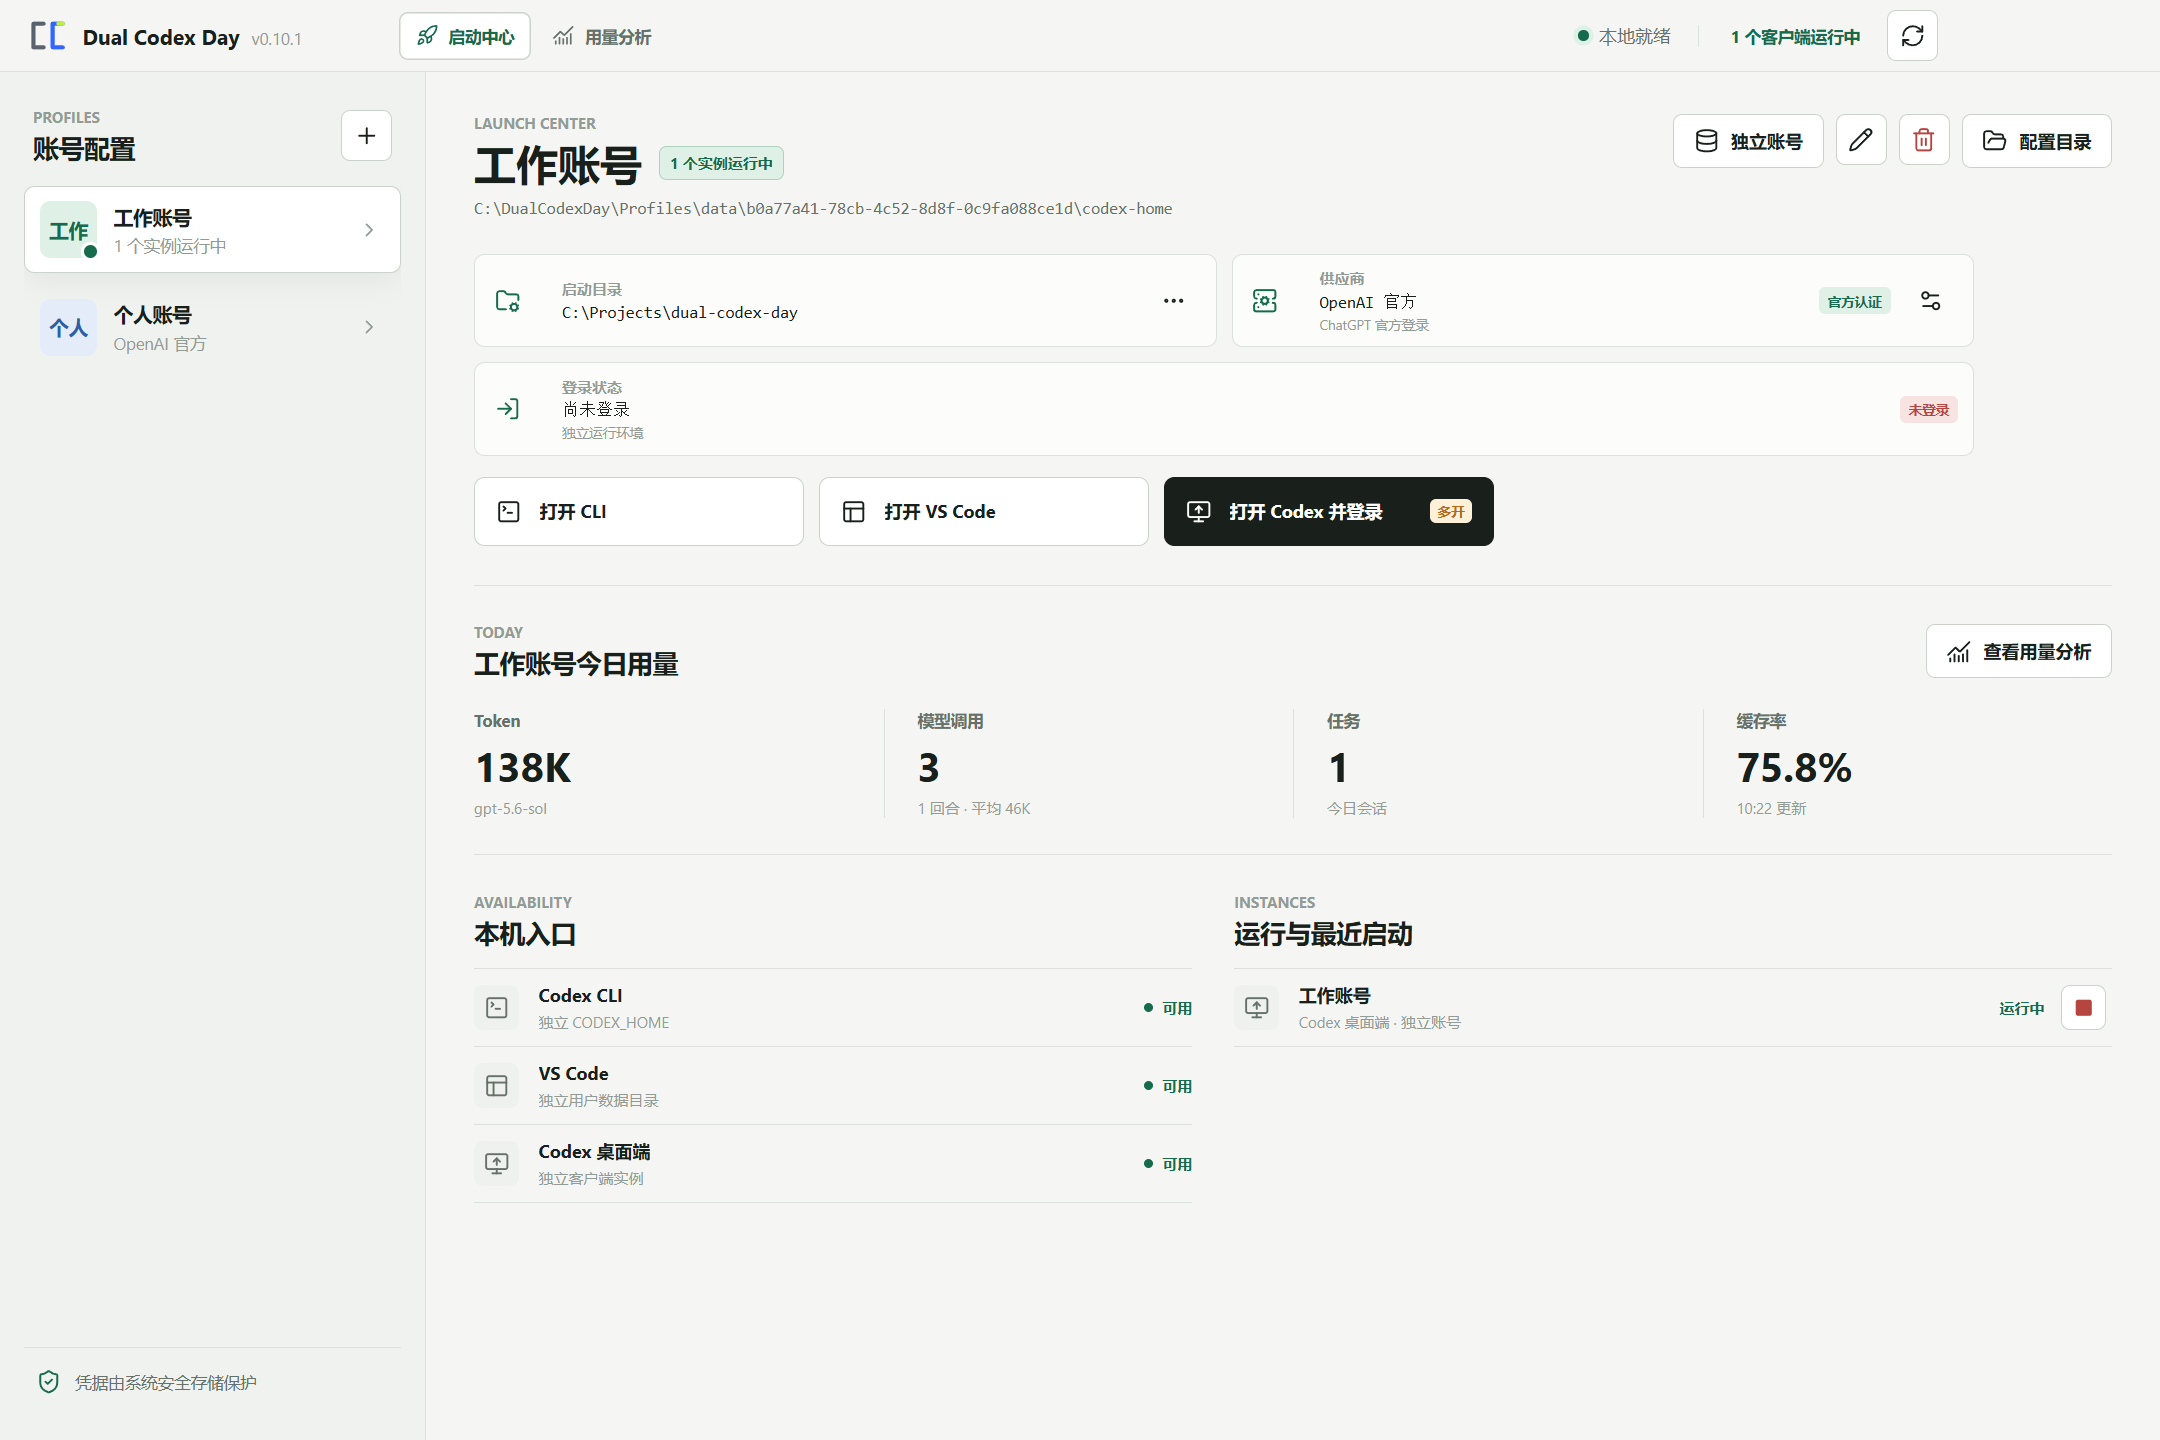
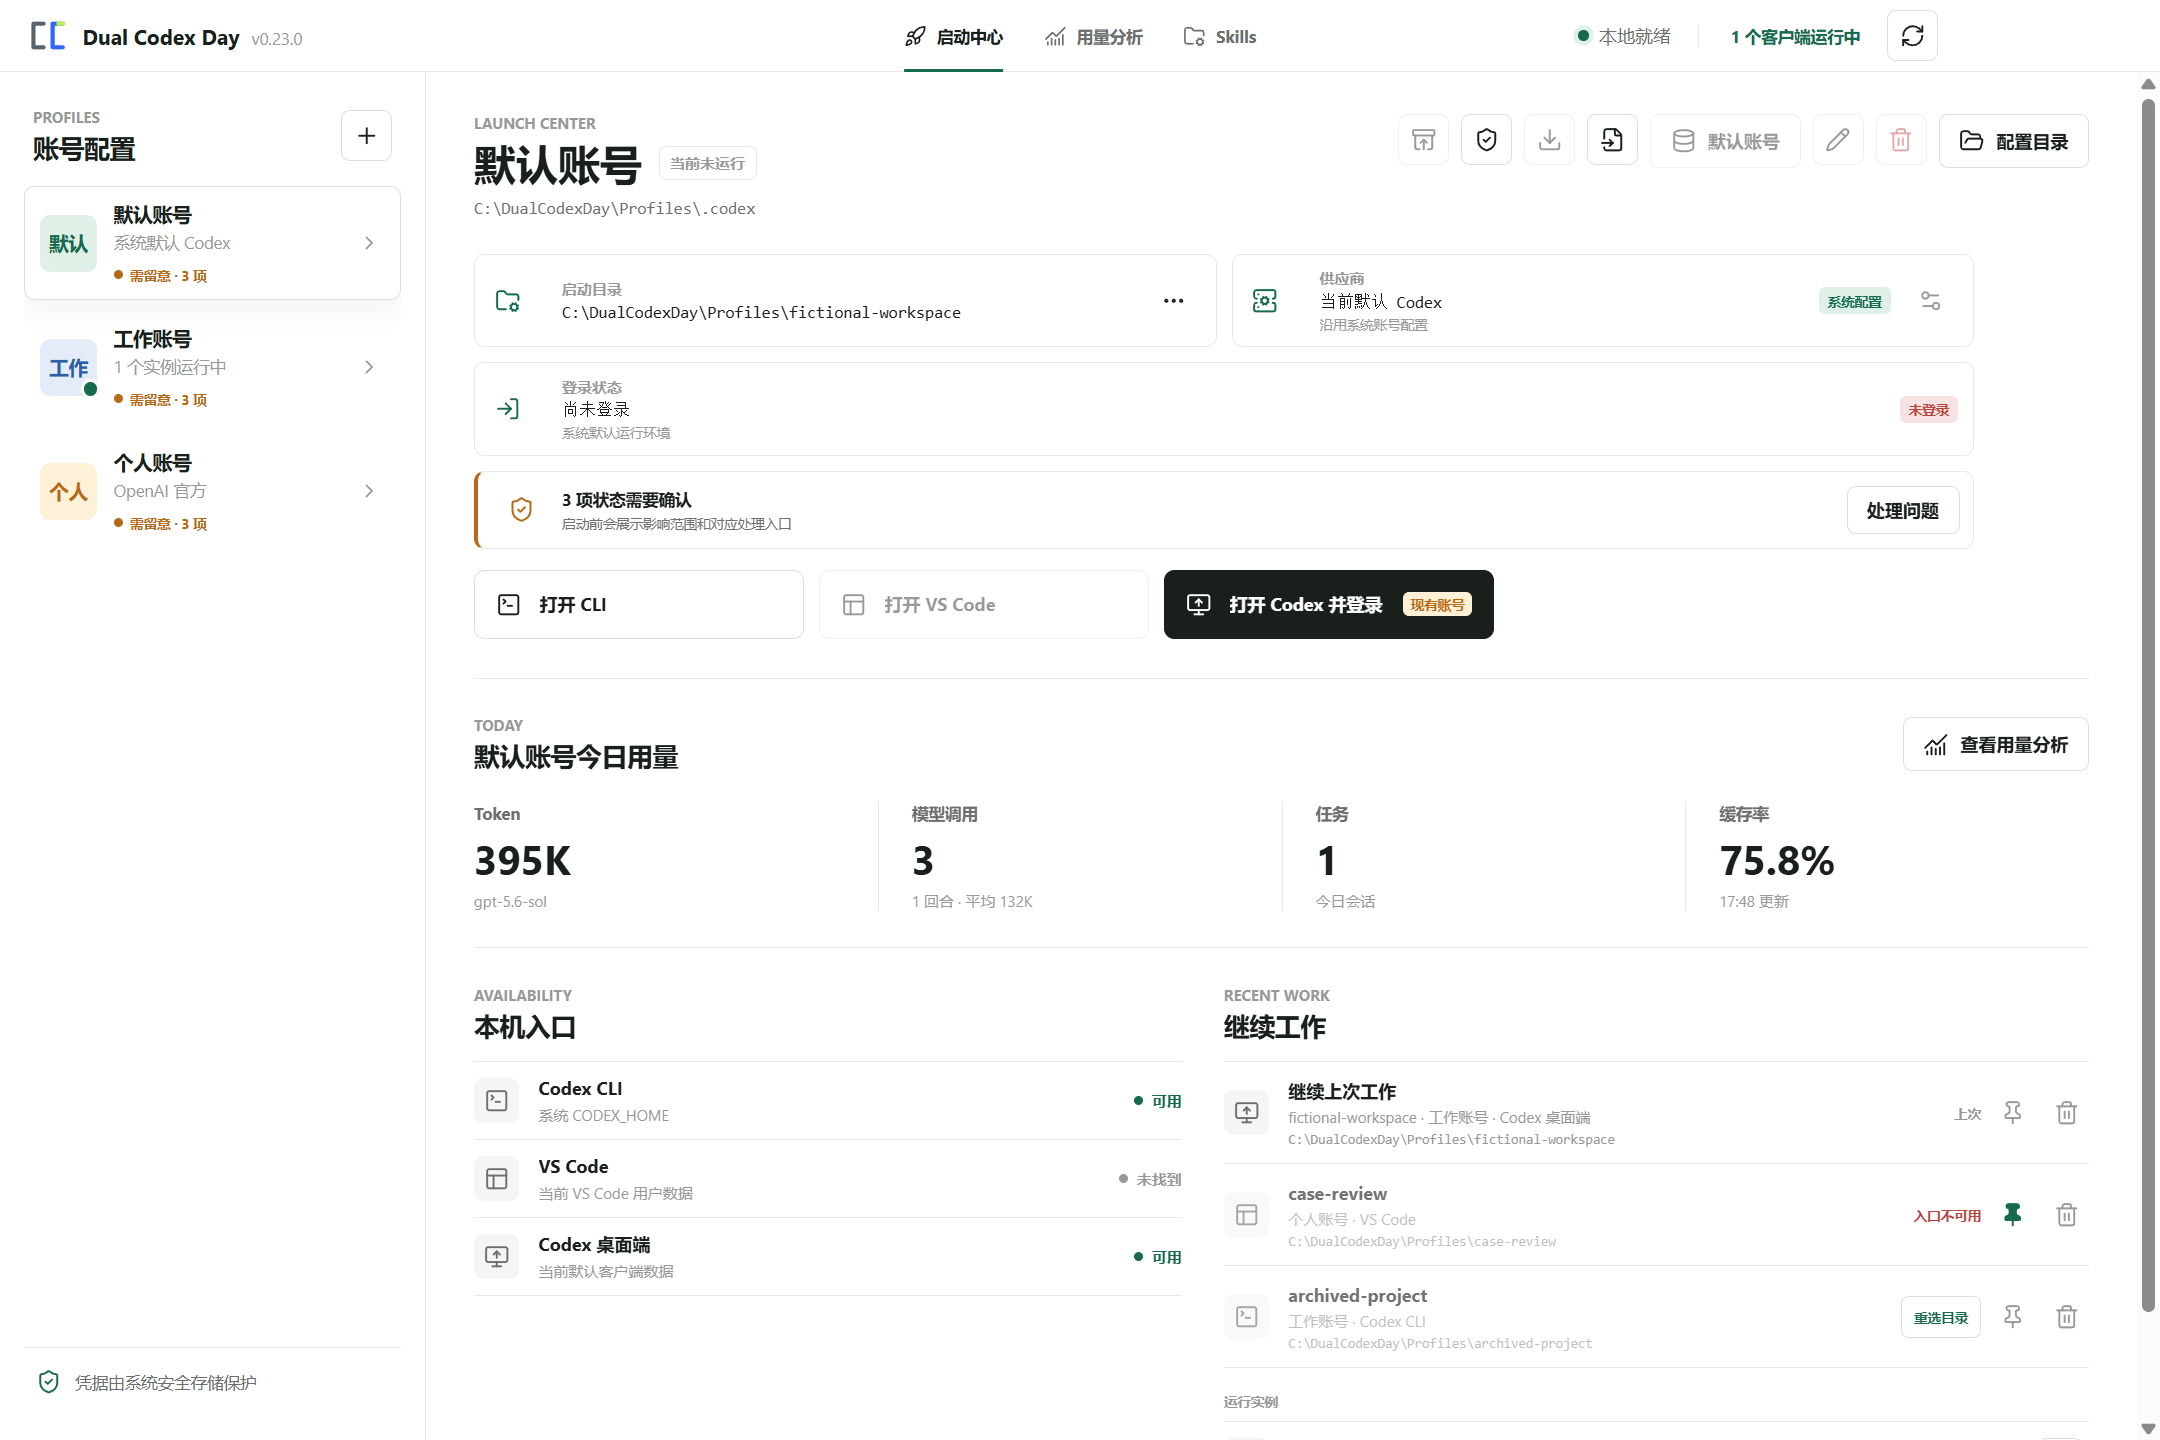
chore: prepare v0.23.0 release

diff --git a/site/index.html b/site/index.html
@@ -40,9 +40,9 @@
     <section class="hero" id="top" aria-labelledby="hero-title">
       <div class="hero-wash" aria-hidden="true"></div>
       <div class="shell hero-content">
-        <p class="eyebrow">Windows · v0.10.1 · MIT</p>
+        <p class="eyebrow">Windows · v0.23.0 · MIT</p>
         <h1 id="hero-title">Dual Codex Day</h1>
-        <p class="hero-lead">在同一个控制台里运行隔离的 Codex 账号，配置官方登录或自定义中转站，并查看每个 Profile 的本地 Token 活动。</p>
+        <p class="hero-lead">在同一个控制台里继续最近工作，运行隔离的 Codex 账号，并按 Profile 查看本地 Token 活动。</p>
         <div class="hero-actions">
           <a class="button" href="https://github.com/AdlinZ/dual-codex-day/releases/latest/download/dual-codex-day-windows-x64.zip">下载 Windows x64</a>
           <a class="button button-secondary" href="./demo/">打开公开 Demo</a>
@@ -68,8 +68,8 @@
           <p>每个 Profile 都有明确的运行状态、登录来源和数据目录。CLI、VS Code 与 Codex 桌面端可以从同一界面启动。</p>
         </div>
 
-        <button class="screenshot-button" type="button" data-image="./assets/electron-launch-center.png" data-caption="启动中心：独立 Profile、客户端入口、今日用量与运行实例">
-          <img src="./assets/electron-launch-center.png" width="2160" height="1440" alt="Dual Codex Day 启动中心，展示工作账号、个人账号、CLI、VS Code 和 Codex 桌面端入口" loading="eager">
+        <button class="screenshot-button" type="button" data-image="./assets/electron-launch-center.png" data-caption="启动中心：Profile 预检、最近工作、客户端入口与运行实例">
+          <img src="./assets/electron-launch-center.png" width="2160" height="1440" alt="Dual Codex Day 启动中心，展示 Profile 预检、继续工作和客户端运行状态" loading="eager">
         </button>
 
         <div class="feature-grid">
@@ -80,13 +80,13 @@
           </article>
           <article>
             <span class="feature-index">02</span>
-            <h3>实例级管理</h3>
-            <p>持续记录实际启动进程，分别显示运行数量，并可关闭指定实例。</p>
+            <h3>继续最近工作</h3>
+            <p>保存 Profile、工作目录和客户端入口，并支持固定、修复和再次启动。</p>
           </article>
           <article>
             <span class="feature-index">03</span>
-            <h3>默认账号兼容</h3>
-            <p>现有 Codex 工作账号可以继续使用系统目录，同时接入统一控制台。</p>
+            <h3>启动前预检</h3>
+            <p>每次启动都重新检查账号、配置和本机入口，阻断项会给出明确处理入口。</p>
           </article>
         </div>
       </div>

diff --git a/CHANGELOG.md b/CHANGELOG.md
@@ -20,6 +20,9 @@ Project name: **Dual Codex Day** (`dual-codex-day`). Historical entries may reta
 
 - Work combinations use an isolated versioned store with atomic writes, duplicate consolidation, bounded history, and a pinned-item limit.
 - Deleted Profiles, missing directories, and unavailable client targets remain visible with explicit unavailable states and never fall back to another account or target.
+- Added release consistency checks for package metadata, notes, the public site, the Windows smoke-test workflow, and current product screenshots.
+- Updated screenshot automation to select a managed Profile after the built-in default account joined the launcher.
+- Moved the one-time CLI PID handshake to the system temporary directory so Windows Terminal can report the interactive process across local directory permission boundaries.
 
 ## [0.22.0] - 2026-09-01
 
